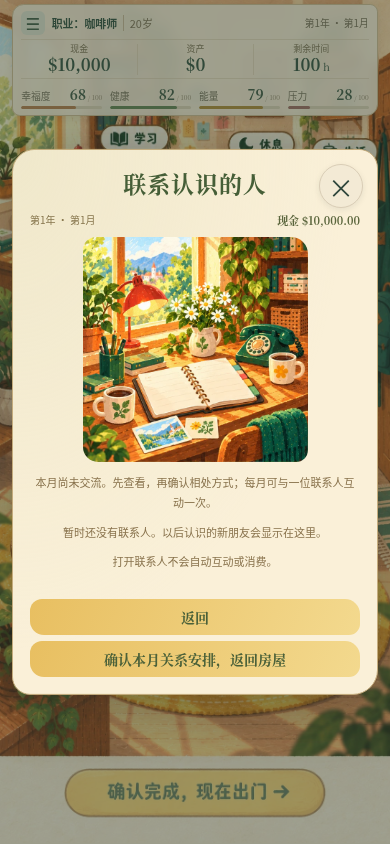
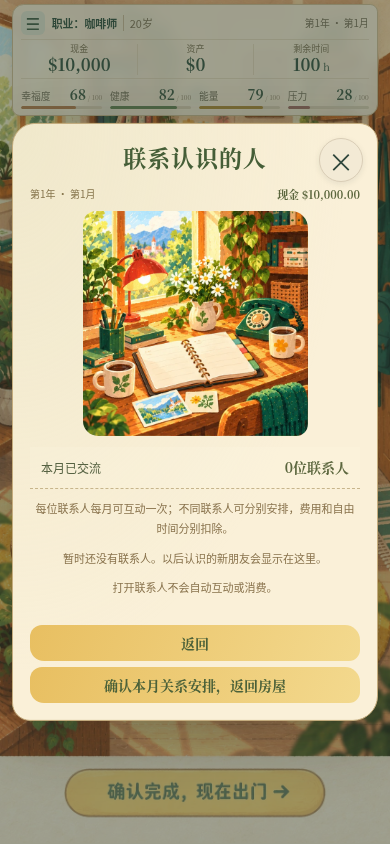
Allow one monthly interaction per contact with cumulative time

diff --git a/sw.js b/sw.js
@@ -1,5 +1,5 @@
-const CACHE='wealth-life-v28.3-social-time1';
-const ASSETS=["./social-time.js?v=28.3-social-time1","./social-pages-art.js?v=28.3-social-time1","./social-pages-art.css?v=28.3-social1","./assets/career/social-scenes.webp","./assets/career/life-funding.webp","./life-pages-art.js?v=28.3-life-pages1","./life-pages-art.css?v=28.3-life-pages1","./assets/career/life-activities.webp","./insurance-rules.js?v=28.3-insurance1","./insurance-hub.js?v=28.3-insurance1","./insurance-hub.css?v=28.3-insurance1","./life-hub-art.js?v=28.3-life-hub1","./life-hub-art.css?v=28.3-life-hub1","./assets/career/life-arrangements.webp","./recovery-activity-guards.js?v=28.3-recovery-guard1","./pet-social-contacts.js?v=28.3-pet-simple1","./assets/career/pet-gecko-cleaning.webp","./assets/career/pet-spider-cleaning.webp","./assets/career/pet-tortoise-cleaning.webp","./assets/career/pet-chameleon-cleaning.webp","./assets/career/pet-cat-professional.webp","./assets/career/pet-cat-cleaning-scenes.webp","./pet-art-map.js?v=28.3-pet-simple1","./pet-art-map.css?v=28.3-pet-map1","./pet-page-art.js?v=28.3-pet-map1","./assets/career/pet-policy.webp","./assets/career/pet-crocodile-cleaning.webp","./assets/career/pet-crocodile-adoption.webp","./assets/career/pet-cat-adoption.webp","./pet-funds-shortage.js?v=28.3-pet-funds1","./pet-funds-shortage.css?v=28.3-pet-funds1","./pet-adoption-success.js?v=28.3-pet-map1","./pet-adoption-success.css?v=28.3-pet-success1","./assets/career/pet-adoption-success.webp","./pet-owned-hub.js?v=28.3-pet-map1","./pet-owned-hub.css?v=28.3-pet-owned1","./assets/career/pet-owned-sheet.webp","./assets/career/pet-cleaning-scenes.webp","./pet-daily-care.js?v=28.3-pet-simple1","./pet-daily-care.css?v=28.3-pet-clean-art1","./pet-adoption-art.js?v=28.3-pet-map1","./pet-adoption-art.css?v=28.3-pet-form1","./assets/career/pet-corgi-adoption.webp","./pet-selection-art.js?v=28.3-pet-entry1","./pet-selection-art.css?v=28.3-pet-center1","./assets/career/pet-selection.webp","./pet-hub-art.js?v=28.3-pet-care-label1","./pet-hub-art.css?v=28.3-pet-hub1","./assets/career/pet-hub.webp","./assets/career/home-mobile.webp","./room-arrangements.js?v=28.3-pet-map1","./map-card-data.js?v=28.3-pet-social-limit1", "./map-card-rules.js?v=28.3-mapcards1", "./map-card-system.js?v=28.3-pet-simple1", "./map-card.css?v=28.3-mapcards1", "./assets/career/map-pet-unwell.webp", "./assets/career/map-pet-injury.webp", "./assets/career/map-pet-companion.webp", "./assets/career/map-pet-social.webp", "./assets/career/map-pet-mishap.webp", "./assets/career/map-investment-studio.webp", "./assets/career/map-investment-bun-shop.webp", "./assets/career/map-investment-laundry.webp"] .concat(["./cafe-rules.js?v=28.3-manager1","./cafe-system.js?v=28.3-manager1","./career-entry.js?v=28.3-mobile-room1","./career-entry.css?v=28.3-entry2","./assets/career/shift-promotion-pending.webp","./assets/career/shift-promotion-preview.webp","./assets/career/coffee-course.webp","./pet-adoption.js?v=28.3-pet-success1","./candidate-art.js?v=28.3-candidate1","./assets/career/barista-portrait.webp","./assets/career/pet-time-shortage.webp","./assets/career/pet-funds-shortage.webp","./assets/career/pet-crocodile-care.webp","./assets/career/bank-application.webp","./assets/career/bank-payment.webp","./housing-art.js?v=28.3-housing1","./assets/career/housing-select.webp","./assets/career/housing-reserve.webp","./assets/career/living-cost.webp","./return-art.js?v=28.3-return1","./assets/career/insurance.webp","./assets/career/return-energy.webp","./assets/career/return-stress.webp","./assets/career/payday.webp","./health-art.js?v=28.3-health1","./assets/career/rest-arrange.webp","./assets/career/rest-complete.webp","./assets/career/hospital-recovery.webp","./assets/career/month-recovery.webp","./education-art.js?v=28.3-education1","./assets/career/degrees.webp","./assets/career/associate-preview.webp","./learning-art.js?v=28.3-learning1","./assets/career/learning.webp","./assets/career/management-course.webp","./assets/career/service-course.webp","./hobby-art.js?v=28.3-room2","./assets/career/hobbies.webp","./home-scene.js?v=28.3-room-unified1","./home-scene.css?v=28.3-room-unified1","./assets/career/home.webp","./release-info.js?v=28.3-internal1","./financial-crisis.js?v=28.3-internal1","./four-state.js?v=28.3-internal1","./rest-state.js?v=28.3-internal1","./coffee-salary.js?v=28.3-internal1","./housing-lease.js?v=28.3-internal1","./pet-care.js?v=28.3-pet-map1","./necessary-bills.js?v=28.3-internal1","./recovery-ui.js?v=28.3-internal1","./medical-insurance.js?v=28.3-internal1","./recovery-rules.js?v=28.3-internal1","./time-ledger.js?v=28.3-internal1","./time-flow.js?v=28.3-home-end1","./assets/career/town.webp","./coffee-career.js?v=28.3-mapcards1", "./assets/career/barista-staff.webp", "./assets/career/barista-busy.webp", "./assets/career/barista-cut.webp", "./assets/career/barista-tip.webp", "./assets/career/barista-departure.webp", "./assets/career/shift-training.webp", "./assets/career/shift-schedule.webp", "./assets/career/shift-schedule-success.webp", "./assets/career/shift-schedule-failure.webp", "./assets/career/shift-complaint.webp", "./assets/career/shift-complaint-success.webp", "./assets/career/shift-complaint-failure.webp", "./assets/career/shift-acting.webp", "./assets/career/shift-acting-success.webp", "./assets/career/shift-acting-failure.webp", "./assets/career/shift-praise.webp", "./assets/career/intro.webp"] .concat(["./shift-lead.js?v=28.3-internal1","./shift-lead.css?v=28.3-internal1","./paper.css?v=28.3-internal1",'./coffee.js?v=28.3-internal1','./town.js?v=28.3-internal1','./','./index.html','./core.js','./flow.js?v=28.3-internal1','./journey.js?v=28.3-internal1','./batch.js?v=28.3-mapcards1','./revision.js?v=28.3-internal1','./annual.js?v=28.3-internal1','./core.js?v=28.3-mapcards1','./presentation.js?v=28.3-candidate1','./presentation.css?v=28.3-internal1','./city.svg','./manifest.webmanifest','./icons/icon-192.png','./icons/icon-512.png']));
+const CACHE='wealth-life-v28.3-social-per-person1';
+const ASSETS=["./social-records.js?v=28.3-social-per-person1","./social-time.js?v=28.3-social-per-person1","./social-pages-art.js?v=28.3-social-per-person1","./social-pages-art.css?v=28.3-social1","./assets/career/social-scenes.webp","./assets/career/life-funding.webp","./life-pages-art.js?v=28.3-life-pages1","./life-pages-art.css?v=28.3-life-pages1","./assets/career/life-activities.webp","./insurance-rules.js?v=28.3-insurance1","./insurance-hub.js?v=28.3-insurance1","./insurance-hub.css?v=28.3-insurance1","./life-hub-art.js?v=28.3-life-hub1","./life-hub-art.css?v=28.3-life-hub1","./assets/career/life-arrangements.webp","./recovery-activity-guards.js?v=28.3-recovery-guard1","./pet-social-contacts.js?v=28.3-pet-simple1","./assets/career/pet-gecko-cleaning.webp","./assets/career/pet-spider-cleaning.webp","./assets/career/pet-tortoise-cleaning.webp","./assets/career/pet-chameleon-cleaning.webp","./assets/career/pet-cat-professional.webp","./assets/career/pet-cat-cleaning-scenes.webp","./pet-art-map.js?v=28.3-pet-simple1","./pet-art-map.css?v=28.3-pet-map1","./pet-page-art.js?v=28.3-pet-map1","./assets/career/pet-policy.webp","./assets/career/pet-crocodile-cleaning.webp","./assets/career/pet-crocodile-adoption.webp","./assets/career/pet-cat-adoption.webp","./pet-funds-shortage.js?v=28.3-pet-funds1","./pet-funds-shortage.css?v=28.3-pet-funds1","./pet-adoption-success.js?v=28.3-pet-map1","./pet-adoption-success.css?v=28.3-pet-success1","./assets/career/pet-adoption-success.webp","./pet-owned-hub.js?v=28.3-pet-map1","./pet-owned-hub.css?v=28.3-pet-owned1","./assets/career/pet-owned-sheet.webp","./assets/career/pet-cleaning-scenes.webp","./pet-daily-care.js?v=28.3-pet-simple1","./pet-daily-care.css?v=28.3-pet-clean-art1","./pet-adoption-art.js?v=28.3-pet-map1","./pet-adoption-art.css?v=28.3-pet-form1","./assets/career/pet-corgi-adoption.webp","./pet-selection-art.js?v=28.3-pet-entry1","./pet-selection-art.css?v=28.3-pet-center1","./assets/career/pet-selection.webp","./pet-hub-art.js?v=28.3-pet-care-label1","./pet-hub-art.css?v=28.3-pet-hub1","./assets/career/pet-hub.webp","./assets/career/home-mobile.webp","./room-arrangements.js?v=28.3-pet-map1","./map-card-data.js?v=28.3-pet-social-limit1", "./map-card-rules.js?v=28.3-mapcards1", "./map-card-system.js?v=28.3-pet-simple1", "./map-card.css?v=28.3-mapcards1", "./assets/career/map-pet-unwell.webp", "./assets/career/map-pet-injury.webp", "./assets/career/map-pet-companion.webp", "./assets/career/map-pet-social.webp", "./assets/career/map-pet-mishap.webp", "./assets/career/map-investment-studio.webp", "./assets/career/map-investment-bun-shop.webp", "./assets/career/map-investment-laundry.webp"] .concat(["./cafe-rules.js?v=28.3-manager1","./cafe-system.js?v=28.3-manager1","./career-entry.js?v=28.3-mobile-room1","./career-entry.css?v=28.3-entry2","./assets/career/shift-promotion-pending.webp","./assets/career/shift-promotion-preview.webp","./assets/career/coffee-course.webp","./pet-adoption.js?v=28.3-pet-success1","./candidate-art.js?v=28.3-candidate1","./assets/career/barista-portrait.webp","./assets/career/pet-time-shortage.webp","./assets/career/pet-funds-shortage.webp","./assets/career/pet-crocodile-care.webp","./assets/career/bank-application.webp","./assets/career/bank-payment.webp","./housing-art.js?v=28.3-housing1","./assets/career/housing-select.webp","./assets/career/housing-reserve.webp","./assets/career/living-cost.webp","./return-art.js?v=28.3-return1","./assets/career/insurance.webp","./assets/career/return-energy.webp","./assets/career/return-stress.webp","./assets/career/payday.webp","./health-art.js?v=28.3-health1","./assets/career/rest-arrange.webp","./assets/career/rest-complete.webp","./assets/career/hospital-recovery.webp","./assets/career/month-recovery.webp","./education-art.js?v=28.3-education1","./assets/career/degrees.webp","./assets/career/associate-preview.webp","./learning-art.js?v=28.3-learning1","./assets/career/learning.webp","./assets/career/management-course.webp","./assets/career/service-course.webp","./hobby-art.js?v=28.3-room2","./assets/career/hobbies.webp","./home-scene.js?v=28.3-room-unified1","./home-scene.css?v=28.3-room-unified1","./assets/career/home.webp","./release-info.js?v=28.3-internal1","./financial-crisis.js?v=28.3-internal1","./four-state.js?v=28.3-internal1","./rest-state.js?v=28.3-internal1","./coffee-salary.js?v=28.3-internal1","./housing-lease.js?v=28.3-internal1","./pet-care.js?v=28.3-pet-map1","./necessary-bills.js?v=28.3-internal1","./recovery-ui.js?v=28.3-internal1","./medical-insurance.js?v=28.3-internal1","./recovery-rules.js?v=28.3-internal1","./time-ledger.js?v=28.3-internal1","./time-flow.js?v=28.3-home-end1","./assets/career/town.webp","./coffee-career.js?v=28.3-mapcards1", "./assets/career/barista-staff.webp", "./assets/career/barista-busy.webp", "./assets/career/barista-cut.webp", "./assets/career/barista-tip.webp", "./assets/career/barista-departure.webp", "./assets/career/shift-training.webp", "./assets/career/shift-schedule.webp", "./assets/career/shift-schedule-success.webp", "./assets/career/shift-schedule-failure.webp", "./assets/career/shift-complaint.webp", "./assets/career/shift-complaint-success.webp", "./assets/career/shift-complaint-failure.webp", "./assets/career/shift-acting.webp", "./assets/career/shift-acting-success.webp", "./assets/career/shift-acting-failure.webp", "./assets/career/shift-praise.webp", "./assets/career/intro.webp"] .concat(["./shift-lead.js?v=28.3-internal1","./shift-lead.css?v=28.3-internal1","./paper.css?v=28.3-internal1",'./coffee.js?v=28.3-internal1','./town.js?v=28.3-internal1','./','./index.html','./core.js','./flow.js?v=28.3-internal1','./journey.js?v=28.3-internal1','./batch.js?v=28.3-mapcards1','./revision.js?v=28.3-social-per-person1','./annual.js?v=28.3-internal1','./core.js?v=28.3-mapcards1','./presentation.js?v=28.3-candidate1','./presentation.css?v=28.3-internal1','./city.svg','./manifest.webmanifest','./icons/icon-192.png','./icons/icon-512.png']));
 self.addEventListener('install',e=>{self.skipWaiting();e.waitUntil(caches.open(CACHE).then(c=>c.addAll(ASSETS)))});
 self.addEventListener('activate',e=>e.waitUntil(Promise.all([caches.keys().then(keys=>Promise.all(keys.filter(k=>k.startsWith('wealth-life-')&&k!==CACHE).map(k=>caches.delete(k)))),self.clients.claim()])));
 // Register the cache lifetime synchronously while the fetch event is active.

diff --git a/social-pages-art.js b/social-pages-art.js
@@ -12,22 +12,22 @@
   $('eventData').replaceChildren(b);$('eventData').style.display='block';return b;
  }
  function actions(){for(const b of $('actions').querySelectorAll('button'))b.dataset.lifePaperAction=b.textContent.startsWith('确认本月')?'review':b.classList.contains('primary')?'confirm':'back';}
- function monthly(b){
-  const r=socialRecord();if(!r){b.append(note('本月尚未交流。先查看，再确认相处方式；每月可与一位联系人互动一次。'));return;}
-  const p=(state.people||[]).find(p=>(p.id||p.name)===r.person);
-  b.append(row('✓ 本月已交流',p?.name||'已记录的联系人'),row('本月交流',r.scene));if(Number.isFinite(r.hours))b.append(row('本次自由时间减少',r.hours+'小时'));b.append(note('本月交流已完成。查看联系人不会再次扣费或改变关系，下个月可以继续互动。'));
+ function monthly(b,person){
+  if(!person){const rows=SocialRecords.all(state);b.append(row('本月已交流',rows.length+'位联系人'),note('每位联系人每月可互动一次；不同联系人可分别安排，费用和自由时间分别扣除。'));return;}
+  const r=socialRecord(person);if(!r){b.append(note('本月尚未与这位联系人交流。先查看，再确认相处方式；每位联系人每月一次。'));return;}
+  b.append(row('✓ 本月已与此人交流',person.name),row('本月交流',r.scene));if(Number.isFinite(r.hours))b.append(row('本次自由时间减少',r.hours+'小时'));b.append(note('本月与这位联系人的互动已完成；还可以安排其他联系人，下个月可再次与此人互动。'));
  }
  const networkBefore=$('networkBtn').onclick;
  $('networkBtn').onclick=function(...args){
   const result=networkBefore.apply(this,args),buttons=[...$('actions').querySelectorAll('button')],b=board('联系认识的人',0);if(!b)return result;
   monthly(b);const list=document.createElement('div');list.className='social-contact-list';
-  for(const p of state.people||[]){
-   const button=buttons.find(x=>x.getAttribute('aria-label')==='联系 '+p.name||x.textContent==='联系 '+p.name);if(!button)continue;
+  for(const [index,p] of (state.people||[]).entries()){
+   const button=buttons[index];if(!button||(button.getAttribute('aria-label')!=='联系 '+p.name&&button.textContent!=='联系 '+p.name))continue;
    const original=button.onclick,owner=state,month=state.month;button.onclick=function(e){if(state!==owner||state.month!==month||!b.isConnected||!state.people.includes(p))return;return original.call(this,e)};
    button.className='social-contact';button.setAttribute('aria-label','联系 '+p.name);
    const seal=document.createElement('span');seal.className='social-contact-seal';seal.setAttribute('aria-hidden','true');seal.textContent=String(p.name||'友').slice(0,1);
    const copy=document.createElement('span');copy.className='social-contact-copy';const name=document.createElement('strong'),identity=document.createElement('small'),stage=document.createElement('small');
-   name.textContent=p.name;identity.textContent=p.status||p.job||'已认识的人';stage.textContent=(relationStage(p)?relationStage(p)+' · ':'')+'亲密度 '+Math.round(p.relation)+'/100';copy.append(name,identity,stage);
+   name.textContent=p.name;identity.textContent=p.status||p.job||'已认识的人';stage.textContent=(relationStage(p)?relationStage(p)+' · ':'')+'亲密度 '+Math.round(p.relation)+'/100'+(socialRecord(p)?' · ✓ 本月已交流':' · 本月待交流');copy.append(name,identity,stage);
    const arrow=document.createElement('span');arrow.textContent='›';arrow.setAttribute('aria-hidden','true');button.replaceChildren(seal,copy,arrow);list.append(button);
   }
   if(!list.children.length)b.append(note('暂时还没有联系人。以后认识的新朋友会显示在这里。'));else b.append(list);
@@ -38,7 +38,7 @@
   const result=personBefore(i),p=state.people?.[i];if(!p)return result;
   const title=p.name+' · '+relationStage(p),buttons=[...$('actions').querySelectorAll('button')],b=board(title,0);if(!b)return result;
   b.classList.add('social-person-paper');$('eventTitle').textContent=p.name+(relationStage(p)?' · '+relationStage(p):'');
-  b.append(row('身份',p.status||p.job||'已认识的人'),row('亲密度',Math.round(p.relation)+'/100'),row('剩余自由时间',currentCareerTime().free+'小时'));monthly(b);
+  b.append(row('身份',p.status||p.job||'已认识的人'),row('亲密度',Math.round(p.relation)+'/100'),row('剩余自由时间',currentCareerTime().free+'小时'));monthly(b,p);
   const descriptions=['在小餐馆坐下来，一起吃顿饭。','找个舒服的位置，聊聊近况。','沿着小路走走，边走边聊。'];
   const options=[['确认一起吃饭 · $45','一起吃饭','$45',1],['确认聊天 · $15','聊天','$15',2],['确认散步交流 · $0','散步交流','$0',3]],list=document.createElement('div');list.className='social-option-list';
   options.forEach(([label,name,cost,s],n)=>{
@@ -49,16 +49,16 @@
    const copy=document.createElement('span'),heading=document.createElement('strong'),desc=document.createElement('small'),time=document.createElement('small'),price=document.createElement('b');heading.textContent=name;desc.textContent=descriptions[n];time.textContent='自由时间减少'+hours+'小时';price.textContent=cost+' · 确认互动';copy.append(heading,desc,time,price);button.replaceChildren(scene(s),copy);list.append(button);
   });b.append(list);
   b.append(note('确认后能量减少2，社交增加3（受状态上下限影响）；亲密度和幸福度以本次交流结果为准。'));
-  if(!socialRecord()&&state.cash<45)b.append(note('灰色选项暂不可选；现金不足时，也可以选择免费的散步交流。'));
-  if(!socialRecord()&&currentCareerTime().free<2)b.append(note('自由时间不足的互动暂不可选；不会扣款或预支下个月时间。'));
+  if(!socialRecord(p)&&state.cash<45)b.append(note('灰色选项暂不可选；现金不足时，也可以选择免费的散步交流。'));
+  if(!socialRecord(p)&&currentCareerTime().free<2)b.append(note('自由时间不足的互动暂不可选；不会扣款或预支下个月时间。'));
   actions();return result;
  };
  const socialBefore=doSocial;
  doSocial=function(...args){
-  const previous=socialRecord(),before={energy:state.energy,social:state.social,happiness:state.happiness},result=socialBefore(...args),r=socialRecord();
+  const previous=socialRecord(args[0]),before={energy:state.energy,social:state.social,happiness:state.happiness},result=socialBefore(...args),r=socialRecord(args[0]);
   if(!r||r===previous)return result;
   const kind=args[3],i=kind==='socialMeal'?1:kind==='socialCoffee'?2:3,b=board(r.scene,i,true);if(!b)return result;
-  const p=args[0];b.append(row('本次交流',p.name),row('本次已支付',priceText(r.cost)));if(Number.isFinite(r.hours))b.append(row('本次自由时间减少',r.hours+'小时'));b.append(row('能量变化',signed(state.energy-before.energy)),row('社交变化',signed(state.social-before.social)),row('幸福度变化',signed(state.happiness-before.happiness)),note('本月交流已记录。返回联系人只查看结果，不会重复付款或再次抽取结果。'));
+  const p=args[0];b.append(row('本次交流',p.name),row('本次已支付',priceText(r.cost)));if(Number.isFinite(r.hours))b.append(row('本次自由时间减少',r.hours+'小时'));b.append(row('能量变化',signed(state.energy-before.energy)),row('社交变化',signed(state.social-before.social)),row('幸福度变化',signed(state.happiness-before.happiness)),note('本次交流已记录。这位联系人本月不再重复互动；其他联系人仍可分别安排。'));
   const returnButton=document.createElement('button');returnButton.textContent='返回联系人';returnButton.onclick=()=>$('networkBtn').click();$('actions').prepend(returnButton);actions();return result;
  };
  function signed(n){return(n>0?'+':'')+n;}

diff --git a/revision.js b/revision.js
@@ -59,9 +59,9 @@ const SOCIAL_SCENES=[
  {title:'一起筹划周末',desc:'你们讨论下一次见面的安排。',gain:6,happiness:4},
  {title:'老照片与回忆',desc:'一张旧照片让你们聊起以前的经历。',gain:10,happiness:4}
 ];
-function socialRecord(){return state.socialMonth?.month===state.month?state.socialMonth:null}
-openSocialPerson=function(i){const p=state.people[i];if(!p)return;const done=socialRecord();showEvent('关系互动',p.name+' · '+relationStage(p),'选择相处方式。',[['身份',p.status||p.job],['亲密度',Math.round(p.relation)+'/100']],[['确认一起吃饭 · $45',()=>doSocial(p,45,8,'socialMeal'),true,!!done||state.cash<45],['确认聊天 · $15',()=>doSocial(p,15,5,'socialCoffee'),false,!!done||state.cash<15],['确认散步交流 · $0',()=>doSocial(p,0,4,'socialWalk'),false,!!done],['返回',finish,false]])};
-doSocial=function(p,cost,points,kind){if(socialRecord()||!spendConfirmed(kind,cost,{person:p.id||p.name}))return;state.socialSequence=(state.socialSequence||0)+1;const personIndex=Math.max(0,state.people.indexOf(p)),scene=SOCIAL_SCENES[(state.month+personIndex*2+state.socialSequence)%SOCIAL_SCENES.length],success=Math.random()<Math.max(.2,Math.min(.98,.8+attributeModifier()+(roleTrait().socialBonus||0)*.025));const gain=success?scene.gain+(roleTrait().socialBonus||0):2;p.relation=Math.min(100,p.relation+gain);state.social=Math.min(100,state.social+3);state.happiness=Math.max(0,Math.min(100,state.happiness+(success?scene.happiness:-2)));state.energy=Math.max(0,state.energy-2);state.socialMonth={month:state.month,person:p.id||p.name,scene:scene.title,success,cost,gain};save();showEvent('关系结果',scene.title,scene.desc+(success?' 这次交流让彼此更了解。':' 你有些疲惫，对话很快结束。'),[['关系变化','+'+gain],['亲密度',Math.round(p.relation)+'/100']],[['继续',finish,true]])};
+function socialRecord(p){return SocialRecords.find(state,p)}
+openSocialPerson=function(i){const p=state.people[i];if(!p)return;const done=socialRecord(p);showEvent('关系互动',p.name+' · '+relationStage(p),'选择相处方式。',[['身份',p.status||p.job],['亲密度',Math.round(p.relation)+'/100']],[['确认一起吃饭 · $45',()=>doSocial(p,45,8,'socialMeal'),true,!!done||state.cash<45],['确认聊天 · $15',()=>doSocial(p,15,5,'socialCoffee'),false,!!done||state.cash<15],['确认散步交流 · $0',()=>doSocial(p,0,4,'socialWalk'),false,!!done],['返回',finish,false]])};
+doSocial=function(p,cost,points,kind){if(socialRecord(p)||!spendConfirmed(kind,cost,{person:p.id||p.name}))return;state.socialSequence=(state.socialSequence||0)+1;const personIndex=Math.max(0,state.people.indexOf(p)),scene=SOCIAL_SCENES[(state.month+personIndex*2+state.socialSequence)%SOCIAL_SCENES.length],success=Math.random()<Math.max(.2,Math.min(.98,.8+attributeModifier()+(roleTrait().socialBonus||0)*.025));const gain=success?scene.gain+(roleTrait().socialBonus||0):2;p.relation=Math.min(100,p.relation+gain);state.social=Math.min(100,state.social+3);state.happiness=Math.max(0,Math.min(100,state.happiness+(success?scene.happiness:-2)));state.energy=Math.max(0,state.energy-2);SocialRecords.add(state,p,{month:state.month,person:p.id||p.name,scene:scene.title,success,cost,gain});save();showEvent('关系结果',scene.title,scene.desc+(success?' 这次交流让彼此更了解。':' 你有些疲惫，对话很快结束。'),[['关系变化','+'+gain],['亲密度',Math.round(p.relation)+'/100']],[['继续',finish,true]])};
 // Buyer offers settle the chosen asset exactly once, paying off its secured loan first.
 function createBuyerOffer(){state.buyerOffers??={};const saved=state.buyerOffers[state.month];if(saved)return saved;const eligible=state.assets.filter(a=>a.kind==='rental'||V26_INSTRUMENTS.some(i=>i.id===a.instrument&&i.kind==='股票'));if(!eligible.length)return null;const a=eligible[Math.floor(Math.random()*eligible.length)],premium=.04+Math.random()*.08;return state.buyerOffers[state.month]={assetId:a.id,gross:roundCash(a.value*(1+premium)),premium,status:'open',name:a.name}}
 function openBuyerOffer(){const o=createBuyerOffer();if(!o||o.status!=='open')return false;const a=state.assets.find(a=>a.id===o.assetId);if(!a){o.status='expired';return false}save();showEvent('市场买家',o.name+' · 收购报价','一位买家提出高于当前估价的收购价。确认后出售全部这笔资产；放弃则继续持有。',[['当前估价',priceText(a.value)],['买家报价',priceText(o.gross)],['清偿贷款',priceText(a.mortgage||0)],['预计净到账',priceText(o.gross-(a.mortgage||0))]],[['确认出售给买家',()=>{if(o.status!=='open'||state.cash+o.gross-(a.mortgage||0)<0)return;const i=state.assets.findIndex(a=>a.id===o.assetId);if(i<0)return;const net=roundCash(o.gross-(state.assets[i].mortgage||0));state.cash=roundCash(state.cash+net);state.assets.splice(i,1);o.status='sold';state.financeLedger??=[];state.financeLedger.push({kind:'assetSale',month:state.month,amount:net,assetId:o.assetId});save();finish()},true,state.cash+o.gross-(a.mortgage||0)<0],['继续持有',()=>{o.status='declined';save();finish()},false]]);return true}
@@ -78,7 +78,7 @@ const eventMonthBefore277=monthlyEvent;monthlyEvent=function(){if(state.gameOver
 function gameOverReason(){if(state.happiness<50)return'幸福低于50';for(const k of ['health','energy','social'])if(state[k]<=0)return V26_STATS[k]+'耗尽';return null}
 function showGameOver(){if(!state.gameOver)return;eventBefore277('人生结束','本局结束',state.gameOver.reason+'。可返回存档列表开始新人生；本局记录保留。',[['已度过',state.month+'个月'],['净资产',priceText(calcMetrics().nw)]],[['保存并返回存档',()=>{save();home()},true]]);$('eventClose').hidden=true}
 const renderBefore277=render;render=function(){if(!state)return;renderBefore277();const c=CAREERS.find(c=>c.name===state.job);$('jobName').textContent=(state.job||'未就业')+' · '+priceText(state.salary||0)+'/月';$('age').textContent=state.age+'岁 · 工作经验 '+((state.workMonths||0)/12).toFixed(1)+'年 · '+roleTrait().name+(c?' · 成长等级 '+(state.careerRanks?.[c.name]||0):'');const reason=gameOverReason();if(reason&&!state.gameOver){state.gameOver={month:state.month,reason};save()}if(state.gameOver)showGameOver()};
-const choicesBefore277=window.v26Choices;window.v26Choices=function(key,api){let html=choicesBefore277(key,api);if(key==='relations'){if(socialRecord())return '<div class="wl-panel"><h3>本月互动已完成</h3><p>'+batchEscape(socialRecord().scene)+'</p><button class="primary" data-r277="socialContinue">继续下一阶段 →</button></div>'+api.option('本月不花钱','保留现金。',()=>completeMonthlyStep(4));}return html};
+const choicesBefore277=window.v26Choices;window.v26Choices=function(key,api){let html=choicesBefore277(key,api);if(key==='relations'){if(state.people.length&&state.people.every(p=>socialRecord(p)))return '<div class="wl-panel"><h3>本月联系人互动均已完成</h3><p>'+batchEscape(socialRecord().scene)+'</p><button class="primary" data-r277="socialContinue">继续下一阶段 →</button></div>'+api.option('本月不花钱','保留现金。',()=>completeMonthlyStep(4));}return html};
 document.addEventListener('click',e=>{if(e.target.closest('[data-r277=socialContinue]'))completeMonthlyStep(4)});
 // Upgrade only the number of unresolved offers; keep the three existing choices and outcomes.
 const offersBefore277=monthlyOffers;monthlyOffers=function(){const o=offersBefore277();if(!o.resolved&&o.ids.length<4){const extra=V26_OFFERS.filter(x=>!o.ids.includes(x.id));if(extra.length){o.ids.push(extra[((state.offerSeed||0)+state.month)%extra.length].id);save()}}return o};

diff --git a/index.html b/index.html
@@ -553,7 +553,7 @@ window.v245OpenHousing=()=>document.getElementById('housingBtn').click();
 <script src="presentation.js?v=28.3-candidate1"></script>
 <script src="flow.js?v=28.3-internal1"></script>
 <script src="journey.js?v=28.3-internal1"></script>
-<script src="batch.js?v=28.3-mapcards1"></script><script src="revision.js?v=28.3-internal1"></script>
+<script src="batch.js?v=28.3-mapcards1"></script><script src="social-records.js?v=28.3-social-per-person1"></script><script src="revision.js?v=28.3-social-per-person1"></script>
 <script src="annual.js?v=28.3-internal1"></script>
 <script src="town.js?v=28.3-internal1"></script>
 <script src="coffee.js?v=28.3-internal1"></script>
@@ -617,6 +617,6 @@ window.v245OpenHousing=()=>document.getElementById('housingBtn').click();
 <link rel="stylesheet" href="life-pages-art.css?v=28.3-life-pages1">
 <script src="life-pages-art.js?v=28.3-life-pages1"></script>
 <link rel="stylesheet" href="social-pages-art.css?v=28.3-social1">
-<script src="social-time.js?v=28.3-social-time1"></script>
-<script src="social-pages-art.js?v=28.3-social-time1"></script>
+<script src="social-time.js?v=28.3-social-per-person1"></script>
+<script src="social-pages-art.js?v=28.3-social-per-person1"></script>
 </body></html>

diff --git a/social-records.js b/social-records.js
@@ -1,0 +1,14 @@
+// One monthly receipt per saved contact. Keep the former single receipt for old saves.
+const SocialRecords=(()=>{
+ function key(p){return p?.id!=null?'id:'+p.id:p?.name?'name:'+p.name:null;}
+ function receiptKey(s,r){return r.personKey||key((s.people||[]).find(p=>p.id!=null&&p.id===r.person))||key((s.people||[]).find(p=>p.name===r.person))||'legacy:'+r.person;}
+ function all(s){
+  if(!s)return [];
+  const rows=s.socialInteractions?.month===s.month?s.socialInteractions.receipts||[]:[],old=s.socialMonth?.month===s.month?s.socialMonth:null,result=[],seen=new Set();
+  for(const r of [...rows,...(old?[old]:[])]){if(r.month!==s.month)continue;const k=receiptKey(s,r);if(seen.has(k))continue;seen.add(k);result.push(r);}return result;
+ }
+ function find(s,p){const rows=all(s);return p?rows.find(r=>receiptKey(s,r)===key(p))||null:rows[rows.length-1]||null;}
+ function add(s,p,r){const rows=all(s);if(find(s,p))return false;r.personKey=key(p);s.socialInteractions={month:s.month,receipts:[...rows,r]};s.socialMonth=r;return true;}
+ return {key,all,find,add};
+})();
+if(typeof module!=='undefined')module.exports=SocialRecords;

diff --git a/social-time.js b/social-time.js
@@ -2,13 +2,13 @@
 function socialInteractionHours(kind){return ({socialCoffee:1,socialWalk:1,socialMeal:2})[kind]??null;}
 (function(){
  const timeBefore=currentCareerTime;
- currentCareerTime=function(){const t=timeBefore(),r=state&&socialRecord(),used=Number.isFinite(r?.hours)?Math.max(0,r.hours):0;return {...t,free:Math.max(0,t.free-used),socialHours:used};};
+ currentCareerTime=function(){const t=timeBefore(),used=SocialRecords.all(state).reduce((n,r)=>n+(Number.isFinite(r.hours)?Math.max(0,r.hours):0),0);return {...t,free:Math.max(0,t.free-used),socialHours:used};};
  const before=doSocial;
  doSocial=function(p,cost,points,kind){
   const hours=socialInteractionHours(kind);if(hours===null)return before(p,cost,points,kind);
-  if(socialRecord())return false;
+  if(socialRecord(p))return false;
   if(currentCareerTime().free<hours){const i=state.people.indexOf(p);if(i>=0)openSocialPerson(i);return false;}
-  const result=before(p,cost,points,kind),r=socialRecord();
+  const result=before(p,cost,points,kind),r=socialRecord(p);
   if(r){r.hours=hours;save();}
   return result;
  };

diff --git a/qa/browser-social-pages-art.py b/qa/browser-social-pages-art.py
@@ -14,7 +14,7 @@ try:
   page.evaluate('window.socialFixture=structuredClone(state)')
   def reset(extra=''):
    page.evaluate('(extra)=>{clearModals();state=structuredClone(socialFixture);townHome();if(extra)eval(extra);roomOpenArrangement("social")}',extra)
-  def snap():return page.evaluate('JSON.stringify({cash:state.cash,month:state.month,energy:state.energy,happiness:state.happiness,social:state.social,free:currentCareerTime().free,people:state.people,record:state.socialMonth,ledger:state.financeLedger,checks:state.roomArrangements})')
+  def snap():return page.evaluate('JSON.stringify({cash:state.cash,month:state.month,energy:state.energy,happiness:state.happiness,social:state.social,free:currentCareerTime().free,people:state.people,record:state.socialMonth,interactions:state.socialInteractions,ledger:state.financeLedger,checks:state.roomArrangements})')
   def shot(n):page.screenshot(path='progress/evidence/social-'+n+'-2026-10-26.png',full_page=True)
   def layout():
    for w,h in [(320,568),(390,844),(1280,900)]:
@@ -40,9 +40,30 @@ try:
    shot(['meal-result','chat-result','walk-result'][i]);layout()
    page.get_by_role('button',name='返回联系人',exact=True).click();assert snap()==after;assert '本月已交流' in page.locator('.social-paper').inner_text()
    if i==0:shot('month-complete')
-   page.locator('.social-contact').last.click();assert page.locator('.social-option:disabled').count()==3
+   page.locator('.social-contact').last.click();assert page.locator('.social-option:enabled').count()==3
+   page.evaluate('$("networkBtn").click()');page.locator('.social-contact').first.click();assert page.locator('.social-option:disabled').count()==3
    page.evaluate('state=JSON.parse(JSON.stringify(state));$("networkBtn").click()');assert snap()==after
    results.append({'cost':cost,'record':record['scene'],'once':True})
+  # Every saved contact has their own monthly quota; hours sum across all receipts.
+  reset();page.evaluate('Math.random=()=>.01');count=page.evaluate('state.people.length');free=page.evaluate('currentCareerTime().free')
+  for i in range(count):
+   page.evaluate('$("networkBtn").click()');page.locator('.social-contact').nth(i).click();assert page.locator('.social-option').nth(0).is_enabled();page.locator('.social-option').nth(0).click()
+  assert page.evaluate('state.cash')==10000-45*count
+  assert page.evaluate('currentCareerTime().free')==free-2*count
+  assert page.evaluate('SocialRecords.all(state).length')==count
+  saved=snap();page.evaluate('state=JSON.parse(JSON.stringify(state));$("networkBtn").click()');assert snap()==saved;shot('all-contacts-complete')
+  page.evaluate('state.month+=1;$("networkBtn").click()');page.locator('.social-contact').first.click();assert page.locator('.social-option:enabled').count()==3
+  # Identical display names still represent separate contact IDs.
+  reset('state.people=[{id:"same-a",name:"同名",job:"同学",relation:50},{id:"same-b",name:"同名",job:"邻居",relation:50}]')
+  assert page.locator('.social-contact').count()==2
+  for i in range(2):
+   page.evaluate('$("networkBtn").click()');page.locator('.social-contact').nth(i).click();page.locator('.social-option').nth(2).click()
+  assert page.evaluate('SocialRecords.all(state).length')==2
+  # Old one-person receipt keeps that contact blocked, other contacts available, and its hours conserved.
+  reset('state.socialMonth={month:state.month,person:state.people[0].id||state.people[0].name,scene:"旧交流",cost:15,gain:5,hours:1}')
+  free=page.evaluate('currentCareerTime().free');page.locator('.social-contact').first.click();assert page.locator('.social-option:disabled').count()==3
+  page.evaluate('$("networkBtn").click()');page.locator('.social-contact').last.click();page.locator('.social-option').nth(2).click();assert page.evaluate('currentCareerTime().free')==free-1
+  assert page.evaluate('SocialRecords.all(state).length')==2
   # Zero cash still allows the original free walk; disabled paid cards never execute.
   reset('state.cash=0');page.locator('.social-contact').first.click();assert page.locator('.social-option:disabled').count()==2;shot('no-cash')
   page.locator('.social-option').nth(2).click();assert page.evaluate('state.cash')==0 and page.evaluate('socialRecord().cost')==0
@@ -71,8 +92,8 @@ try:
   reset();before=page.evaluate('({cash:state.cash,people:JSON.stringify(state.people)})');page.get_by_role('button',name='确认本月关系安排，返回房屋',exact=True).click();assert page.evaluate('roomChecks().social.confirmed') is True;assert page.evaluate('state.cash')==before['cash'];assert page.evaluate('JSON.stringify(state.people)')==before['people']
   assert not errors,errors;context.close()
   # Install actual SW and reopen the relationship page offline with the new image.
-  context=browser.new_context(viewport={'width':390,'height':844});page=context.new_page();page.goto(f'http://127.0.0.1:{server.server_port}',wait_until='networkidle');page.evaluate('navigator.serviceWorker.ready');page.reload(wait_until='networkidle');page.wait_for_function('navigator.serviceWorker.controller!==null');assert page.evaluate('caches.keys()')==['wealth-life-v28.3-social-time1']
+  context=browser.new_context(viewport={'width':390,'height':844});page=context.new_page();page.goto(f'http://127.0.0.1:{server.server_port}',wait_until='networkidle');page.evaluate('navigator.serviceWorker.ready');page.reload(wait_until='networkidle');page.wait_for_function('navigator.serviceWorker.controller!==null');assert page.evaluate('caches.keys()')==['wealth-life-v28.3-social-per-person1']
   context.set_offline(True);page.reload(wait_until='networkidle');page.get_by_role('button',name='查看职业预览',exact=True).click();page.get_by_role('button',name='选择这个人生',exact=True).click();page.evaluate('roomOpenArrangement("social")');assert page.locator('.social-contact').count()>0
   assert page.evaluate('new Promise((resolve,reject)=>{const i=new Image;i.onload=()=>resolve(i.naturalWidth);i.onerror=reject;i.src="assets/career/social-scenes.webp"})')>0
-  context.close();browser.close();result={'passed':True,'interactions':results,'checks':['saved contacts and new acquaintances; no invented people','browsing no costs, effects, time or checks','three original payments and monthly guard, repeat/reload and capped relation','confirmed1/1/2 hours, time changed after preview, exact zero, next month and old receipt compatibility','original failure description and loss retained','free walk at zero cash','stale detached/month/save callbacks blocked','recovery redirect and empty contacts','explicit room acknowledgement without interaction','320/390/desktop centered without horizontal overflow','real service worker and offline art'],'pageErrors':errors,'limits':['isolated Chromium, not real phone','only confirmed room interaction hours added; other activity proposals unchanged']};Path('qa/browser-evidence/social-pages-art.json').write_text(json.dumps(result,ensure_ascii=False,indent=2)+'\n');print(json.dumps(result,ensure_ascii=False,indent=2))
+  context.close();browser.close();result={'passed':True,'interactions':results,'checks':['saved contacts and new acquaintances; no invented people','browsing no costs, effects, time or checks','three original payments, per-contact monthly quota, multiple contacts accumulated hours, old receipt migration, same-name distinct IDs, reload and next month','confirmed1/1/2 hours, time changed after preview, exact zero, next month and old receipt compatibility','original failure description and loss retained','free walk at zero cash','stale detached/month/save callbacks blocked','recovery redirect and empty contacts','explicit room acknowledgement without interaction','320/390/desktop centered without horizontal overflow','real service worker and offline art'],'pageErrors':errors,'limits':['isolated Chromium, not real phone','only confirmed room interaction hours added; other activity proposals unchanged']};Path('qa/browser-evidence/social-pages-art.json').write_text(json.dumps(result,ensure_ascii=False,indent=2)+'\n');print(json.dumps(result,ensure_ascii=False,indent=2))
 finally:server.shutdown();server.server_close()

diff --git a/docs/confirmed/social-interactions-2026-10-26.md b/docs/confirmed/social-interactions-2026-10-26.md
@@ -1,11 +1,21 @@
-# 关系逐项确认：互动耗时（2026-10-26）
+# 关系逐项确认：耗时与次数（2026-10-26）
 
 用户要求一个个确定关系规则。第一项明确选择“可以，按1／1／2小时”：聊天消耗1小时自由时间，散步交流消耗1小时自由时间，一起吃饭消耗2小时自由时间。
 
-仅确认此项。费用、每月互动次数、关系/幸福效果等此次没有重新确定，继续沿当前实现；接下来应逐项核对，不能把旧代码数值全记为用户新确认。
+耗时与下方互动次数已获明确确认。费用、关系/幸福效果仍需逐项核对，继续沿当前实现；不能把旧代码数值全记为用户新确认。
 
 已接入social-time.js：确认成功（包括原交流不顺利结果）后在当月socialMonth回执记录hours，currentCareerTime从原剩余时间中减去一次，与课程/休息/宠物/事件扣时叠加；预览、时间不足、付款失败和重复回调不扣。无欠时/预支。读档保留，次月原记录不再占时；旧已完成回执未记录hours时不追扣。
 
 交互卡片显示“自由时间减少1/2小时”和当前剩余时间，时间不足选项停用，执行时再次检查；结果和本月汇总显示已用时间。其他活动耗时草案没有因此采用。
 
 43个Node测试和实际关系浏览器/离线检查通过，包括1小时可聊天/散步不可吃饭、预览后时间耗尽不扣款、刚好用完、重复/读档/次月和旧回执兼容。非真机。缓存wealth-life-v28.3-social-time1，仅本地未上传。
+
+## 第二项：每位联系人每月一次（用户明确确认）
+
+用户选择“改成：每位联系人每月一次”。吃饭、聊天、散步共用该联系人的当月一次额度，不同联系人分别计算；有足够现金/自由时间即可在同月分别交流。
+
+SocialRecords按稳定联系人ID保存当月多份回执（无ID旧人物沿名字），revision.js按具体联系人检查并记录；socialMonth继续保留最后一份回执兼容旧读档。社交耗时改为合计当月所有不重复回执的hours，不会第二人覆盖第一人耗时。既有单份回执只占对应联系人的次数，保留已有hours；缺hours的旧回执不追扣时间。重复点击、刷新、同名不同ID不会重复扣款或共享额度；次月重新获得各自次数。
+
+联系人列表逐人标明本月已/待交流，个人页只限制本人；原阶段向导也只在所有联系人均完成时显示全体已完成。地图事件、宠物交流月限及其他活动没有改变。
+
+44个Node测试及实际浏览器/离线检查通过：三个联系人分别付款耗时并累加、同名不同ID、旧单记录保留/续加、重复/读档/次月、资源不足与康复门禁。缓存wealth-life-v28.3-social-per-person1，图仍74，仅本地未上传。非真机。

diff --git a/CODEX_HANDOFF.md b/CODEX_HANDOFF.md
@@ -1,5 +1,7 @@
 # 财富人生 Wealth Life — Codex 接手说明
 
+最新逐项规则（2026-10-26）：用户明确改为“每位联系人每月一次”，已接入按联系人ID的多回执和累计扣时；同一人的吃饭/聊天/散步共用一次，不同人分别计算。旧单份回执占原联系人次数、已有耗时保留且不追扣缺失小时。同名不同ID分别计算，重复/读档/次月检查通过。见 [关系确认规则](docs/confirmed/social-interactions-2026-10-26.md)。44个Node测试及真实关系浏览器/离线通过，缓存 `wealth-life-v28.3-social-per-person1`。只新增确认次数，费用/关系效果仍待逐项核对；地图/宠物月限不改。本地未上传。
+
 最新逐项规则（2026-10-26）：用户明确确认聊天1h、散步1h、吃饭2h，见 [互动耗时确认](docs/confirmed/social-interactions-2026-10-26.md)。已接social-time.js及卡片文案、资源不足门禁/执行再检查和当月回执扣时；不追扣旧已完成交流，读档不重复、次月清除占时。43个Node测试及真实关系浏览器/离线检查通过，缓存 `wealth-life-v28.3-social-time1`。只确认耗时，费用/月限/关系效果仍须逐项核对，不擅自采用其他耗时草案。本地未上传。
 
 最新（2026-10-26）：用户已明确“确认”修正后的生活绘本画风，见 [画风确认](docs/confirmed/illustration-style-2026-10-26.md)，覆盖下方“待视觉核对”。继续后已完成房屋关系的联系人/三项基础互动/原结果手绘页面，先读 [关系页检查点](progress/social-pages-art-2026-10-26.md)。保留原45/15/0、每月一次、实际原随机关系/幸福结果和康复门禁；不增朋友、不定人像/性别、不加耗时。74生产图，缓存 `wealth-life-v28.3-social1`，42个Node测试及实际关系浏览器/离线检查通过，非真机。关系新页面待用户核对；本地未上传。

diff --git a/NEXT_SESSION.md b/NEXT_SESSION.md
@@ -1,5 +1,7 @@
 # 新会话接手
 
+最新逐项规则（2026-10-26）：用户明确改为“每位联系人每月一次”，已接入按联系人ID的多回执和累计扣时；同一人的吃饭/聊天/散步共用一次，不同人分别计算。旧单份回执占原联系人次数、已有耗时保留且不追扣缺失小时。同名不同ID分别计算，重复/读档/次月检查通过。见 [关系确认规则](docs/confirmed/social-interactions-2026-10-26.md)。44个Node测试及真实关系浏览器/离线通过，缓存 `wealth-life-v28.3-social-per-person1`。只新增确认次数，费用/关系效果仍待逐项核对；地图/宠物月限不改。本地未上传。
+
 最新逐项规则（2026-10-26）：用户明确确认聊天1h、散步1h、吃饭2h，见 [互动耗时确认](docs/confirmed/social-interactions-2026-10-26.md)。已接social-time.js及卡片文案、资源不足门禁/执行再检查和当月回执扣时；不追扣旧已完成交流，读档不重复、次月清除占时。43个Node测试及真实关系浏览器/离线检查通过，缓存 `wealth-life-v28.3-social-time1`。只确认耗时，费用/月限/关系效果仍须逐项核对，不擅自采用其他耗时草案。本地未上传。
 
 最新（2026-10-26）：用户已明确“确认”修正后的生活绘本画风，见 [画风确认](docs/confirmed/illustration-style-2026-10-26.md)，覆盖下方“待视觉核对”。继续后已完成房屋关系的联系人/三项基础互动/原结果手绘页面，先读 [关系页检查点](progress/social-pages-art-2026-10-26.md)。保留原45/15/0、每月一次、实际原随机关系/幸福结果和康复门禁；不增朋友、不定人像/性别、不加耗时。74生产图，缓存 `wealth-life-v28.3-social1`，42个Node测试及实际关系浏览器/离线检查通过，非真机。关系新页面待用户核对；本地未上传。

diff --git a/progress/social-pages-art-2026-10-26.md b/progress/social-pages-art-2026-10-26.md
@@ -1,5 +1,7 @@
 # 关系页插画与原互动接入（2026-10-26）
 
+最新覆盖：用户确认每位联系人每月一次，现已按人记录和累计扣时，见 [关系规则](../docs/confirmed/social-interactions-2026-10-26.md)。下方“每月总共一次”为旧状态，不再适用。
+
 后续覆盖：用户已单独确认聊天1h、散步1h、吃饭2h并接入，见 [互动耗时确认](../docs/confirmed/social-interactions-2026-10-26.md)。下方“未采用耗时”的描述为此前状态，其他旧规则未获本轮新确认。
 
 用户确认修正后的绘本风并要求继续。接续房屋七项，推进“关系”：实际联系人列表、三种基础互动、原交流结果和本月已完成状态；没有重建游戏、迁移或清除存档。
